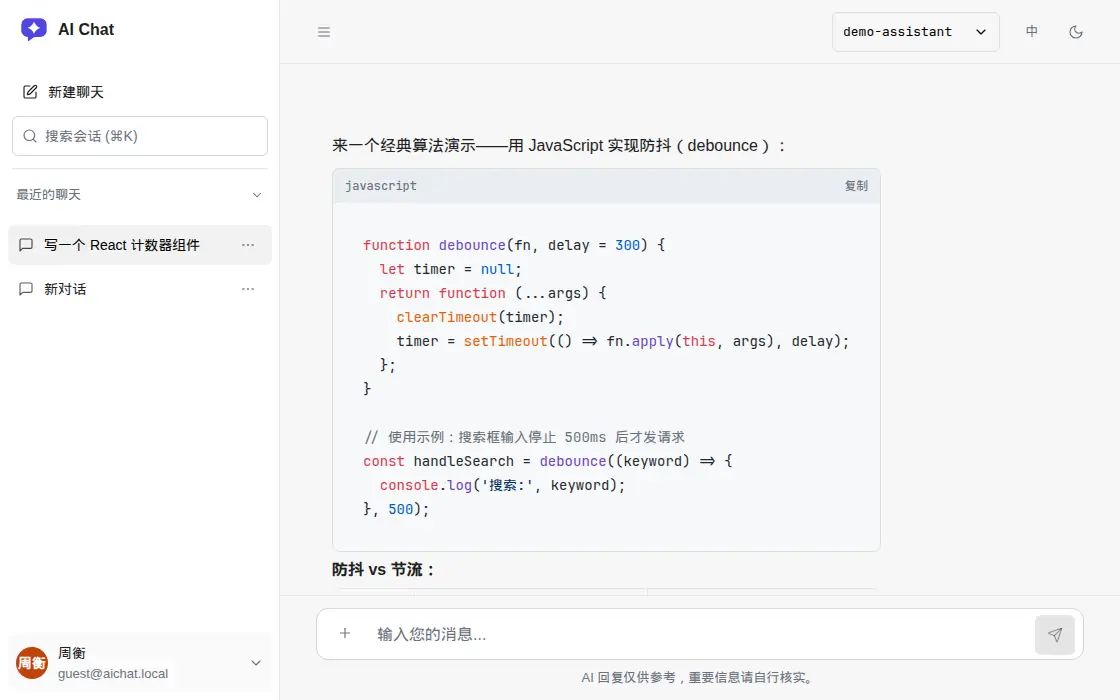
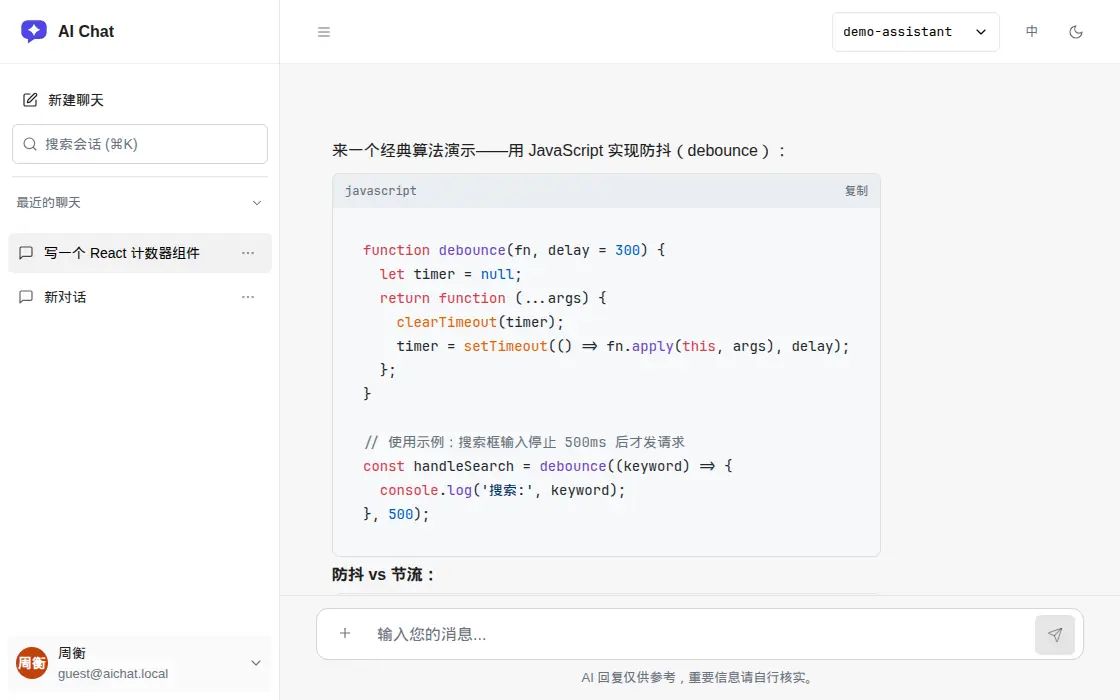
fix: 聊天顶栏改用侧栏底色
顶栏和侧栏顶都用 panel（浅色白、深色 #171717），同高 64px，底边仍是一条发丝线。

diff --git a/src/components/Sidebar.jsx b/src/components/Sidebar.jsx
@@ -198,7 +198,7 @@ const Sidebar = observer(({ isOpen, onClose, refreshKey }) => {
         } overflow-hidden z-50`}
     >
       <div className="w-[280px] flex-1 flex flex-col min-h-0">
-        <div className="px-5 pt-4 pb-3 flex justify-between items-center flex-shrink-0">
+        <div className={`h-16 px-5 flex justify-between items-center flex-shrink-0 border-b ${classes.hairline}`}>
           <AppLogo name={APP_NAME} />
           <button
             onClick={onClose}

diff --git a/src/components/ChatHeader.jsx b/src/components/ChatHeader.jsx
@@ -10,7 +10,7 @@ const ChatHeader = ({ toggleSidebar }) => {
 
   return (
     <div
-      className={`h-16 border-b px-2 md:px-6 flex items-center justify-between ${classes.bg} ${classes.hairline} ${classes.themeTransition}`}
+      className={`h-16 border-b px-2 md:px-6 flex items-center justify-between ${classes.panel} ${classes.hairline} ${classes.themeTransition}`}
     >
       <div className="flex items-center">
         <button
